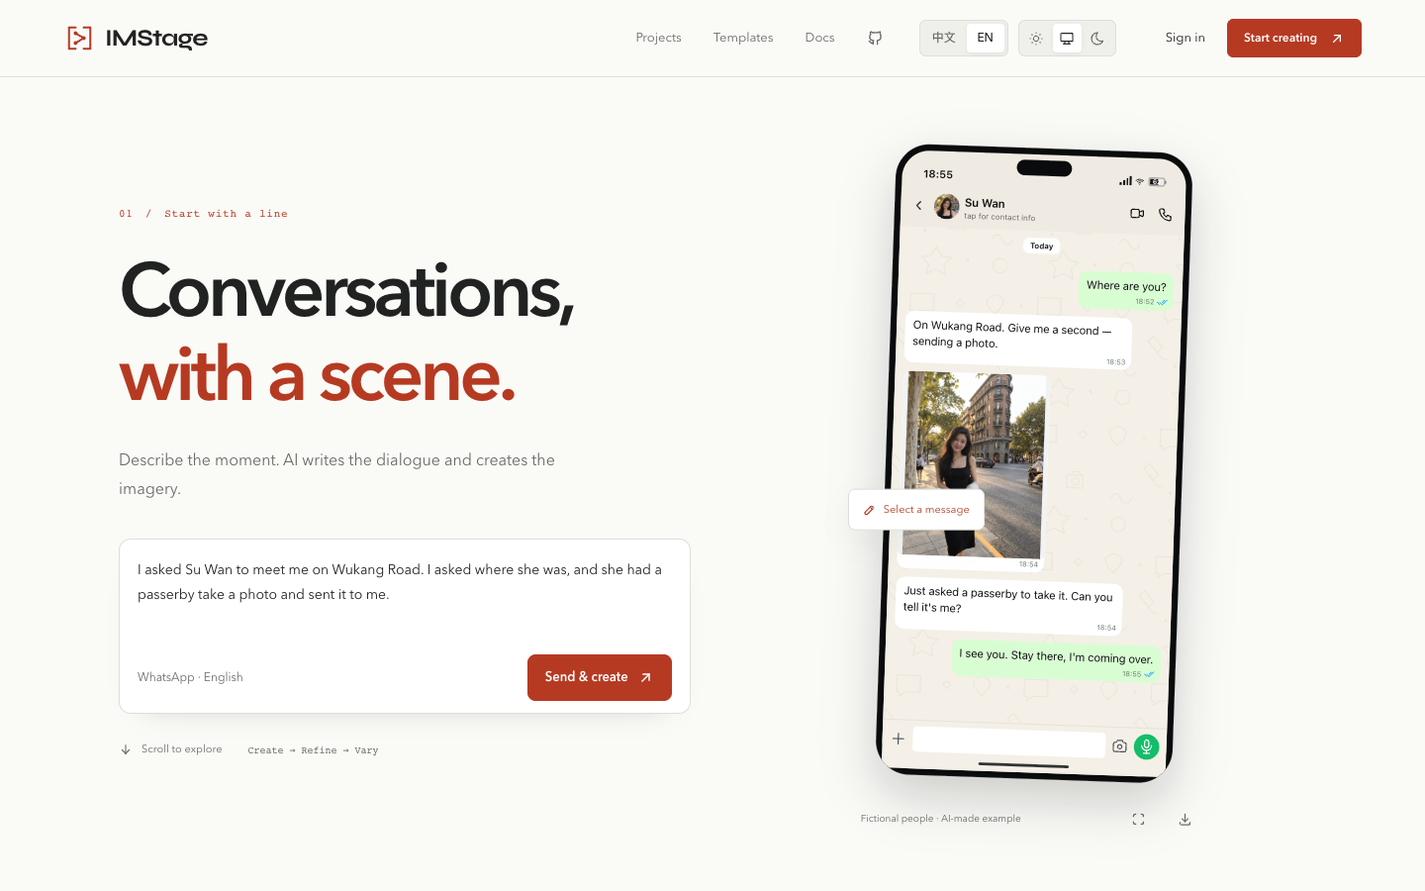
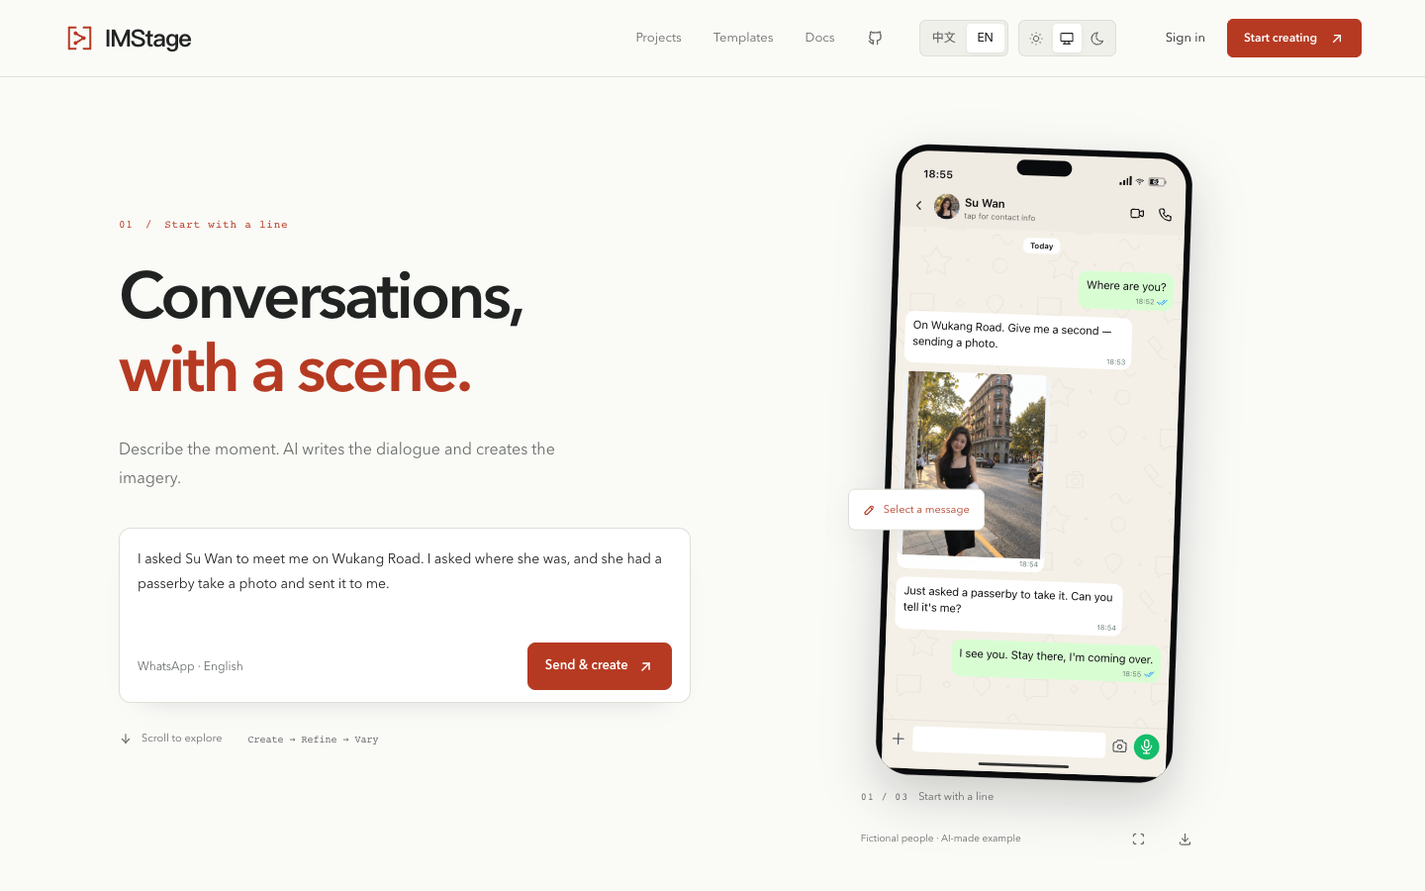
Polish the bilingual creation-first landing page (#5)
* Polish bilingual landing typography and creation flow presentation

* Resolve relative artifact paths in symlink security fixture

* Arm preview render gate before scrolling in race test

---------

diff --git a/apps/web/src/marketing/copy.ts b/apps/web/src/marketing/copy.ts
@@ -147,6 +147,7 @@ export interface LandingCopy {
   openLede: string;
   openRows: readonly { title: string; detail: string; tag: string }[];
   openGithub: string;
+  openDocs: string;
   faqLabel: string;
   faqTitle: string;
   faq: readonly { q: string; a: string }[];
@@ -232,21 +233,22 @@ export const LANDING_COPY: Record<Locale, LandingCopy> = {
     contrastNote: '预览与导出读取同一份场景。',
     openLabel: '开源与自托管',
     openTitle: '代码在你手里。',
-    openLede: '前端可静态托管；账号、作品库与 Agent 由 Node 服务提供，模型凭据只在服务端读取。',
+    openLede: '代码开源，可自行托管。账号、作品库与 Agent 由服务端提供，模型凭据只在服务端读取。',
     openRows: [
       { title: '浏览器本地编辑', detail: '免登录可用，草稿只保存在当前浏览器。', tag: '已实现' },
       { title: '账号与 Agent', detail: '注册账号后保存作品，并使用已配置模型的 Agent 创作。', tag: '托管已部署' },
-      { title: 'MCP 与 API', detail: 'MCP 使用管理员配置的实例令牌与独立场景库；商业 API key 尚未实现。', tag: '令牌访问' },
+      { title: 'MCP 与 API', detail: 'MCP 使用实例令牌与独立场景库，不开放匿名调用；商业 API key 尚未实现。', tag: '令牌访问' },
     ],
     openGithub: '在 GitHub 查看',
+    openDocs: '接入与自托管',
     faqLabel: '细节说明',
     faqTitle: '开始之前。',
     faq: [
-      { q: '页面上这些对话是真的吗？', a: '不是。所有场景、人物头像、时间与地点都是合成的虚构内容，仅用于演示工具，不代表任何真实聊天、真人身份或交易记录。' },
-      { q: '我的内容保存在哪里？', a: '试用页面的编辑只在当前页面内存中，刷新即消失。进入工作台后，草稿保存在当前浏览器；登录账号并点击保存后，场景与素材会写入托管服务，按账号隔离。清理浏览器数据会删除本机草稿。' },
-      { q: '可以导出什么？', a: '可以导出普通截图或包含完整对话的长图 PNG，也可以下载 JSON 场景数据。导出尺寸由设备配置决定，例如 iPhone 17 Pro 为 1206 × 2622。' },
+      { q: '页面上这些对话是真的吗？', a: '不是。所有场景、头像、时间和地点都是合成的虚构内容，仅用于演示，不代表真实聊天、真人或交易记录。' },
+      { q: '我的内容保存在哪里？', a: '试用页面的编辑只存在内存中，刷新即消失。工作台草稿自动保存在当前浏览器；登录后自动同步到服务器，按账号隔离。清理浏览器数据会删除本机草稿。' },
+      { q: '可以导出什么？', a: '普通截图或包含完整对话的长图 PNG，也可以下载 JSON 场景数据。导出尺寸由设备配置决定，例如 iPhone 17 Pro 为 1206 × 2622。' },
       { q: '能还原真实 App 的截图吗？', a: '目前是视觉近似，尚未针对具体系统与 App 版本做像素级校准。请用于设计、教学和虚构叙事，不要当作真实截图证据。' },
-      { q: '托管服务和 MCP 怎么收费？', a: '项目采用 MIT 许可，浏览器本地编辑免费。托管站点已可注册使用；AI 能力需要服务端配置模型。MCP 使用实例令牌和独立场景库，不开放匿名调用，定价与商业 API key 尚未实现。' },
+      { q: '托管服务和 MCP 怎么收费？', a: '项目采用 MIT 许可，浏览器本地编辑免费。托管站点已可注册使用；AI 能力需要服务端配置模型。MCP 使用实例令牌和独立场景库，不开放匿名调用；定价与商业 API key 尚未实现。' },
     ],
     ctaTitle: '下一段对话，等你开场。',
     ctaBody: '免登录试改与导出，或进入工作台开始新的场景。',
@@ -257,7 +259,7 @@ export const LANDING_COPY: Record<Locale, LandingCopy> = {
     eyebrow: 'Open-source conversation staging',
     h1a: 'One prompt.',
     h1b: 'A story unfolds.',
-    promise: 'AI writes the dialogue and creates the image — all editable.',
+    promise: 'AI writes the dialogue and creates the image, all editable.',
     promptLabel: 'Your instruction',
     promptHint: 'Write your instruction; sending starts one AI run.',
     promptPlaceholder: 'Describe a scene, for example a place to meet.',
@@ -328,21 +330,22 @@ export const LANDING_COPY: Record<Locale, LandingCopy> = {
     contrastNote: 'Preview and export read the same scene.',
     openLabel: 'Open source & self-hosting',
     openTitle: 'The code is yours.',
-    openLede: 'The frontend can be hosted statically; accounts, the scene library and the Agent are served by Node, and model credentials are read only on the server.',
+    openLede: 'Open source and self-hostable. Accounts, the scene library and the Agent run on the server; model credentials are read only there.',
     openRows: [
       { title: 'Local editing', detail: 'Works without an account; drafts stay in this browser.', tag: 'Implemented' },
       { title: 'Account & Agent', detail: 'Create an account to save work and generate with a configured model.', tag: 'Hosted' },
-      { title: 'MCP & API', detail: 'MCP uses an administrator-configured instance token and a separate store; commercial API keys are not implemented.', tag: 'Token access' },
+      { title: 'MCP & API', detail: 'MCP uses an instance token and a separate store rather than anonymous calls; commercial API keys are not implemented.', tag: 'Token access' },
     ],
     openGithub: 'View on GitHub',
+    openDocs: 'Setup & self-hosting',
     faqLabel: 'The details',
     faqTitle: 'Before you start.',
     faq: [
-      { q: 'Are these conversations real?', a: 'No. Every scene, avatar, timestamp and place is synthetic fiction used to demonstrate the tool. Nothing here represents a real chat, a real person or a transaction.' },
-      { q: 'Where is my work saved?', a: 'Edits on this page live in memory and disappear on reload. In the studio, drafts are stored in this browser; after you sign in and save, scenes and media are written to the hosted service, isolated per account. Clearing browser data deletes local drafts.' },
-      { q: 'What can I export?', a: 'A short screenshot or a long capture of the full conversation as PNG, plus the scene as JSON. Output size follows the device profile — an iPhone 17 Pro export is 1206 × 2622.' },
+      { q: 'Are these conversations real?', a: 'No. Every scene, avatar, timestamp and place is synthetic fiction for demonstration only, not a real chat, person or transaction.' },
+      { q: 'Where is my work saved?', a: 'Edits on this page live in memory and disappear on reload. Studio drafts save automatically in this browser and sync to the server after sign-in, isolated per account. Clearing browser data deletes local drafts.' },
+      { q: 'What can I export?', a: 'A short screenshot or a long capture of the full conversation as PNG, plus the scene as JSON. Output size follows the device profile, for example 1206 × 2622 on iPhone 17 Pro.' },
       { q: 'Does it recreate real app screenshots?', a: 'It is a visual approximation and is not pixel-certified against a specific app or OS version. Use it for design, teaching and fiction, not as screenshot evidence.' },
-      { q: 'How are hosting and MCP priced?', a: 'The project is MIT-licensed and local editing is free. The hosted site is open for registration; AI features need a model configured on the server. MCP uses an instance token and separate scene store rather than anonymous calls, and pricing and commercial API keys are not implemented.' },
+      { q: 'How are hosting and MCP priced?', a: 'The project is MIT-licensed and local editing is free. The hosted site is open for registration; AI features need a model configured on the server. MCP uses an instance token and a separate store, not anonymous calls; pricing and commercial API keys are not implemented.' },
     ],
     ctaTitle: 'Your next conversation starts here.',
     ctaBody: 'Edit and export without an account, or open the studio and begin a new scene.',

diff --git a/apps/web/src/marketing/journey.css b/apps/web/src/marketing/journey.css
@@ -3,11 +3,12 @@
 .journey-chapter{min-height:83svh;display:flex;flex-direction:column;justify-content:center;padding:75px 0;scroll-margin-top:100px}
 .journey-intro{min-height:calc(100svh - 78px);padding:65px 0 70px}
 .journey-index{font-family:var(--font-mono,monospace);font-size:11px;letter-spacing:.07em;color:var(--accent);margin:0 0 28px;display:flex;gap:12px}
-.journey h1{font-size:clamp(48px,5.3vw,76px);line-height:1.12;letter-spacing:-.055em;font-weight:560;margin:0 0 28px}
-.journey[data-locale='en'] h1{letter-spacing:-.055em}
+.journey h1{font-size:clamp(46px,4.7vw,66px);line-height:1.12;letter-spacing:-.045em;font-weight:560;margin:0 0 28px}
+html[lang='zh-CN'] .journey h1{letter-spacing:-.012em;line-height:1.16}
 .journey h1 em{font-style:normal;color:var(--accent)}
 .journey-promise{max-width:450px;font-size:16px;line-height:1.8;color:var(--muted);margin:0 0 35px}
-.journey h2{font-size:clamp(32px,3.2vw,46px);line-height:1.25;letter-spacing:-.04em;font-weight:550;margin:0 0 25px}
+.journey h2{font-size:clamp(30px,2.95vw,40px);line-height:1.26;letter-spacing:-.035em;font-weight:550;margin:0 0 25px}
+html[lang='zh-CN'] .journey h2{letter-spacing:-.01em;line-height:1.34}
 .journey-description{font-size:15px;line-height:1.95;color:var(--muted);max-width:390px;margin:0 0 34px}
 .journey .mark-hero-composer{margin:0;padding:18px 18px 12px;border:1px solid var(--line);border-radius:12px;background:var(--surface);box-shadow:0 14px 30px -26px #151c2855}
 .journey .mark-hero-composer>label{position:absolute;width:1px;height:1px;clip-path:inset(50%);overflow:hidden}
@@ -32,7 +33,9 @@
 .journey-annotation{position:absolute;left:-38px;top:54%;z-index:4;display:flex;align-items:center;gap:8px;background:var(--surface);border:1px solid var(--line);color:var(--accent);padding:11px 14px;border-radius:7px;font-size:11px;box-shadow:0 12px 30px #1520180b;pointer-events:none;transition:transform 600ms}
 .journey[data-journey-step='1'] .journey-annotation{transform:translateY(55px)}
 .journey[data-journey-step='2'] .journey-annotation{transform:translateY(-90px)}
-.journey-caption{width:min(100%,350px);margin:28px auto 0;display:flex;align-items:center;justify-content:space-between;gap:8px;color:var(--muted);font-size:10px}
+.journey-chapter-note{width:min(100%,350px);margin:20px auto 0;display:flex;align-items:baseline;gap:10px;font-size:11px;line-height:1.5;color:var(--muted)}
+.journey-chapter-note span{font-family:var(--font-mono,monospace);font-size:10px;letter-spacing:.09em}
+.journey-caption{width:min(100%,350px);margin:12px auto 0;display:flex;align-items:center;justify-content:space-between;gap:8px;color:var(--muted);font-size:10px}
 .journey-caption>div{display:flex;gap:3px}.journey-caption button{border:0;background:transparent;color:var(--muted);width:44px;height:44px;display:grid;place-items:center;border-radius:6px;cursor:pointer}.journey-caption button:hover{background:var(--surface);color:var(--text)}.journey-caption button:disabled{opacity:.4;cursor:default}
 .journey-assets{max-width:350px;margin:4px auto;min-height:18px}.journey-assets:empty{display:none}
 .journey-edit-field{border-left:2px solid var(--accent);padding:4px 0 0 20px;margin:0 0 20px;max-width:420px}
@@ -46,8 +49,8 @@
 .journey-variants strong{font-size:13px;font-weight:550}.journey-row-number{font-family:var(--font-mono,monospace);font-size:10px}
 .journey button:focus-visible,.journey a:focus-visible,.journey textarea:focus-visible{outline:2px solid var(--accent);outline-offset:4px}
 @supports (animation-timeline:view()){@media(prefers-reduced-motion:no-preference) and (min-width:901px){.journey-stage{animation:journey-lift linear both;animation-timeline:--creator-journey;animation-range:entry 100% exit 0%}@keyframes journey-lift{from{translate:0 10px}to{translate:0 -14px}}}}
-@media(max-width:1100px){.journey{gap:35px}.journey-annotation{left:-20px}.journey-stage{max-width:270px}.journey h1{font-size:58px}.journey-variants button{grid-template-columns:20px 50px 1fr 15px;gap:8px}.journey-caption{font-size:10px}}
-@media(max-width:900px){.journey{width:calc(100% - 48px);display:flex;flex-direction:column;gap:0}.journey-copy{display:contents}.journey-intro{order:0;padding:44px 0 24px;min-height:0}.journey h1{font-size:clamp(42px,8vw,64px)}.journey-promise{font-size:15px;max-width:520px;margin-bottom:25px}.journey-index{margin-bottom:22px}.journey-scene{order:1;margin:10px 0 15px}.journey-sticky{position:relative;top:auto;padding:20px 0}.journey-stage{width:245px;min-width:0}.journey-chapter:not(.journey-intro){order:2;min-height:0;padding:50px 0;border-top:1px solid var(--line)}.journey-chapter:last-child{order:3}.journey h2{font-size:34px}.journey-variants,.journey-edit-field,.journey-description{max-width:none}.journey[data-journey-step='2'] .journey-paper-far{transform:translate(32px,-10px) rotate(8deg)}.journey[data-journey-step='2'] .journey-paper-back{transform:translate(16px,-5px) rotate(4deg)}.journey[data-journey-step='2'] .journey-device{transform:rotate(-3deg)}.journey-caption{max-width:300px}.journey-composer-bottom small{font-size:11px;max-width:130px}.journey-scroll{font-size:11px}.journey-description{font-size:14px}.journey-variants button{grid-template-columns:22px 60px 1fr 15px}.journey-annotation{left:-16px}}
+@media(max-width:1100px){.journey{gap:35px}.journey-annotation{left:-20px}.journey-stage{max-width:270px}.journey h1{font-size:50px}.journey-variants button{grid-template-columns:20px 50px 1fr 15px;gap:8px}.journey-caption{font-size:10px}}
+@media(max-width:900px){.journey{width:calc(100% - 48px);display:flex;flex-direction:column;gap:0}.journey-copy{display:contents}.journey-intro{order:0;padding:32px 0 14px;min-height:0}.journey h1{font-size:clamp(42px,8vw,50px);margin-bottom:18px}.journey-promise{font-size:15px;max-width:520px;margin-bottom:16px}.journey-index{margin-bottom:14px}.journey-scene{order:1;margin:2px 0 10px}.journey-sticky{position:relative;top:auto;padding:12px 0}.journey-chapter-note{margin-top:14px}.journey-scroll{margin-top:16px}.journey-stage{width:245px;min-width:0}.journey-chapter:not(.journey-intro){order:2;min-height:0;padding:50px 0;border-top:1px solid var(--line)}.journey-chapter:last-child{order:3}.journey h2{font-size:34px}.journey-variants,.journey-edit-field,.journey-description{max-width:none}.journey[data-journey-step='2'] .journey-paper-far{transform:translate(32px,-10px) rotate(8deg)}.journey[data-journey-step='2'] .journey-paper-back{transform:translate(16px,-5px) rotate(4deg)}.journey[data-journey-step='2'] .journey-device{transform:rotate(-3deg)}.journey-caption{max-width:300px}.journey-composer-bottom small{font-size:11px;max-width:130px}.journey-scroll{font-size:11px}.journey-description{font-size:14px}.journey-variants button{grid-template-columns:22px 60px 1fr 15px}.journey-annotation{left:-16px}}
 @media(prefers-reduced-motion:reduce){.journey-device,.journey-paper,.journey-annotation{transition:none!important;transform:none!important}.journey-stage{animation:none!important}.journey-paper{display:none}.journey[data-journey-step='2'] .journey-paper{display:none}}
 
 .journey .mark-hero-composer,.journey .mark-status{order:initial}

diff --git a/apps/web/src/marketing/ScrollJourney.tsx b/apps/web/src/marketing/ScrollJourney.tsx
@@ -14,7 +14,7 @@ const COPY = {
     scroll: '向下探索', steps: '对话 → 编辑 → 系列',
     editTitle: ['刚好的停顿。', '你想要的语气。'], editBody: '点选消息，直接修改。人物、照片与样式也可以继续交给 AI。',
     editLabel: '改一句，画面随之改变', edited: '已在画面中更新',
-    variantsTitle: ['同一个设定。', '不同的故事。'], variantsBody: '把共同规则留在 Project。每一条只描述差异：名字、照片、语言，或一个新的转折。',
+    variantsTitle: ['同一个设定。', '不同的故事。'], variantsBody: '共同设定留在项目里。每一条，只改人物、照片或情节。',
     rows: [['苏晚', '武康路 · 路人抓拍'], ['阿禾', '见面前 · 发张自拍'], ['林森', '初次见面 · 认个人']],
     reply: ['看见你了。别动，我过来。', '我点好咖啡了，靠窗的位置。', '票拿到了，我们门口见。'],
     project: '打开 Project', editAction: '在工作台继续',
@@ -27,9 +27,9 @@ const COPY = {
     scroll: 'Scroll to explore', steps: 'Create → Refine → Vary',
     editTitle: ['The right pause.', 'Your kind of voice.'], editBody: 'Select a message and change it. Ask AI to refine people, photos and the details around them.',
     editLabel: 'Change a line. See it in the scene.', edited: 'Updated in the scene',
-    variantsTitle: ['One premise.', 'Different stories.'], variantsBody: 'Keep shared rules in a Project. Describe only what changes: names, photos, language, or a new turn in the story.',
+    variantsTitle: ['One premise.', 'Different stories.'], variantsBody: 'Keep the premise in a project. Change the people, photos or plot of each story.',
     rows: [['Su Wan', 'Wukang Road · A candid photo'], ['Ava', 'Before we meet · A selfie'], ['Noah', 'First meeting · A familiar face']],
-    reply: ['I see you. Stay there — coming over.', 'Coffee is ready. I found a window seat.', 'Got the tickets. Meet you at the entrance.'],
+    reply: ['I see you. Stay right there, I am on my way.', 'Coffee is ready. I found a window seat.', 'Got the tickets. Meet you at the entrance.'],
     project: 'Open a Project', editAction: 'Continue in the workspace',
     demo: 'Fictional people · AI-made example', photo: 'View the example photo', export: 'Export PNG',
     select: 'Select a message', selected: 'Editing', example: 'Example variation',
@@ -150,6 +150,7 @@ export function ScrollJourney({ locale, scene, avatars, composer, assetStatus, o
           </div>
           <span className="journey-annotation"><IconPencil size={13} aria-hidden="true" />{chapter === 2 ? `${copy.example} ${variant + 1}/3` : chapter === 1 ? copy.selected : copy.select}</span>
         </div>
+        <p className="journey-chapter-note" aria-hidden="true"><span>{`0${chapter + 1} / 03`}</span>{copy.labels[chapter]}</p>
         <div className="journey-caption"><span>{copy.demo}</span><div>
           {chapter === 2 ? <a href={continueHref} className="journey-text-action" onClick={event => onContinue(event, visibleScene)}>{copy.editAction}<IconArrowUpRight size={14} /></a> : <><button type="button" aria-label={copy.photo} title={copy.photo} onClick={onPhoto} disabled={!photoReady}><IconMaximize size={15} /></button>
           <button type="button" aria-label={copy.export} title={copy.export} onClick={onExport} disabled={exportDisabled} data-testid="hero-export"><IconDownload size={15} /></button></>}

diff --git a/tests/ui/journey.spec.ts b/tests/ui/journey.spec.ts
@@ -9,14 +9,23 @@ test('scroll chapters expose real editing and independent people without an AI c
   await page.goto('/?lang=zh');
   await expect(page.getByTestId('hero-export')).toBeEnabled();
   await expect(page.locator('.mark-story-controls')).toHaveCount(0);
+  // A quiet, localized chapter caption follows the sticky scene itself.
+  const stageNote = page.locator('.journey-chapter-note');
+  await expect(stageNote).toBeVisible();
+  await expect(stageNote).toContainText('01 / 03');
+  await expect(stageNote).toContainText('从一句话开始');
   const device = page.locator('.journey-device');
   await expect(device).toContainText('你到哪里了？');
   await page.locator('#journey-edit').scrollIntoViewIfNeeded();
   await expect(page.locator('.journey')).toHaveAttribute('data-journey-step', '1');
+  await expect(stageNote).toContainText('02 / 03');
+  await expect(stageNote).toContainText('每一处都能改');
   await page.getByLabel('改一句，画面随之改变', { exact: true }).fill('我看到你了，路灯旁边等我。');
   await expect(device).toContainText('我看到你了，路灯旁边等我。');
   await page.locator('#journey-projects').scrollIntoViewIfNeeded();
   await expect(page.locator('.journey')).toHaveAttribute('data-journey-step', '2');
+  await expect(stageNote).toContainText('03 / 03');
+  await expect(stageNote).toContainText('从一张到一组');
   expect(await page.locator('.journey-paper-back span').first().evaluate(element => getComputedStyle(element).writingMode)).toBe('horizontal-tb');
   const original = await device.locator('.scene-image img').getAttribute('src');
   await page.getByRole('button', { name: /02.*阿禾/ }).click();
@@ -33,7 +42,9 @@ test('English mobile and reduced motion retain editable examples without overflo
   await page.emulateMedia({ reducedMotion: 'reduce' });
   await page.goto('/?lang=en');
   await expect(page.getByTestId('hero-start')).toHaveText(/Send/);
+  await expect(page.locator('.journey-chapter-note')).toContainText('Start with a line');
   await page.locator('#journey-edit').scrollIntoViewIfNeeded();
+  await expect(page.locator('.journey-chapter-note')).toContainText('Make it yours');
   await page.getByLabel('Change a line. See it in the scene.', { exact: true }).fill('Wait by the bookshop. I can see you.');
   await expect(page.locator('#journey-edit .journey-mobile-preview')).toContainText('Wait by the bookshop. I can see you.');
   await expect(page.locator('.journey-device .scene-view')).toHaveAttribute('data-platform', 'whatsapp');

diff --git a/tests/ui/marketing.spec.ts b/tests/ui/marketing.spec.ts
@@ -191,6 +191,13 @@ test('mobile keeps a useful story, the CTA and touch-sized controls without over
   // The compact CTA row is in the first viewport, before the phone.
   await expect(heroCta(page)).toBeInViewport();
   await expect(hero(page)).toBeVisible();
+  // The authored scene photo starts in the first viewport, not just its frame:
+  // the primary prompt and action still sit above it.
+  await readyToExport(page);
+  const photo = await page.locator('.journey-device .scene-image').boundingBox();
+  expect(photo).not.toBeNull();
+  expect(photo!.y).toBeLessThan(844);
+  expect(844 - photo!.y).toBeGreaterThanOrEqual(80);
   await hero(page).scrollIntoViewIfNeeded();
   await expect(hero(page).locator('.scene-row').first()).toBeInViewport();
   for (const selector of ['.mark-btn', '.mark-toggle button', '.mark-story-controls button']) {
@@ -306,8 +313,10 @@ test.describe('refinements', () => {
       };
     });
     await page.goto('/');
-    await page.locator('#mark-export').scrollIntoViewIfNeeded();
+    // Arm before scrolling triggers the first render; a fast capture can finish
+    // between scrollIntoViewIfNeeded and a later gate installation.
     await page.evaluate(() => (window as unknown as { __gateFonts: () => void }).__gateFonts());
+    await page.locator('#mark-export').scrollIntoViewIfNeeded();
     await expect(page.locator('[data-export-preview="loading"]')).toBeVisible();
 
     // Edit while the render is held, then release: the stale frame must be dropped.

diff --git a/apps/web/src/marketing/MarketingSite.tsx b/apps/web/src/marketing/MarketingSite.tsx
@@ -533,11 +533,17 @@ export default function MarketingSite() {
               <h2 className="mark-h2">{copy.openTitle}</h2>
               <p className="mark-lede">{copy.openLede}</p>
             </div>
-            <a className="mark-btn mark-btn-ghost" href="https://github.com/kubbot/imstage" target="_blank" rel="noreferrer">
-              <IconBrandGithub size={17} aria-hidden="true" />
-              {copy.openGithub}
-              <IconArrowUpRight size={15} aria-hidden="true" />
-            </a>
+            <div className="mark-open-actions">
+              <a className="mark-btn mark-btn-ghost" href="https://github.com/kubbot/imstage" target="_blank" rel="noreferrer">
+                <IconBrandGithub size={17} aria-hidden="true" />
+                {copy.openGithub}
+                <IconArrowUpRight size={15} aria-hidden="true" />
+              </a>
+              <a className="text-link" href="#/docs">
+                {copy.openDocs}
+                <IconArrowUpRight size={15} aria-hidden="true" />
+              </a>
+            </div>
           </div>
           <ul className="mark-open-rows">
             {copy.openRows.map((row) => (

diff --git a/apps/web/src/marketing/marketing.css b/apps/web/src/marketing/marketing.css
@@ -64,14 +64,14 @@ html[data-theme='dark'] .mark {
 .mark-h2 {
   font-family: var(--display);
   font-weight: 700;
-  font-size: clamp(28px, 3.4vw, 44px);
-  line-height: 1.14;
-  letter-spacing: -0.04em;
+  font-size: clamp(27px, 3vw, 40px);
+  line-height: 1.16;
+  letter-spacing: -0.035em;
   margin: 0 0 16px;
 }
 html[lang='zh-CN'] .mark-h2 {
-  letter-spacing: -0.02em;
-  line-height: 1.24;
+  letter-spacing: -0.012em;
+  line-height: 1.26;
 }
 .mark-lede {
   font-size: 14px;
@@ -95,6 +95,13 @@ html[lang='zh-CN'] .mark-h2 {
 }
 .mark-section-head-row > div {
   max-width: 620px;
+}
+.mark-open-actions {
+  display: flex;
+  flex-direction: column;
+  align-items: flex-start;
+  gap: 14px;
+  flex: none;
 }
 
 /* ------------------------------------------------------------------- hero */
@@ -1046,7 +1053,7 @@ html[data-theme='dark'] .mark-export-card {
   text-align: center;
 }
 .mark-cta-title {
-  font-size: clamp(30px, 4.4vw, 52px);
+  font-size: clamp(30px, 3.4vw, 42px);
   margin-bottom: 16px;
 }
 .mark-cta .mark-lede {
